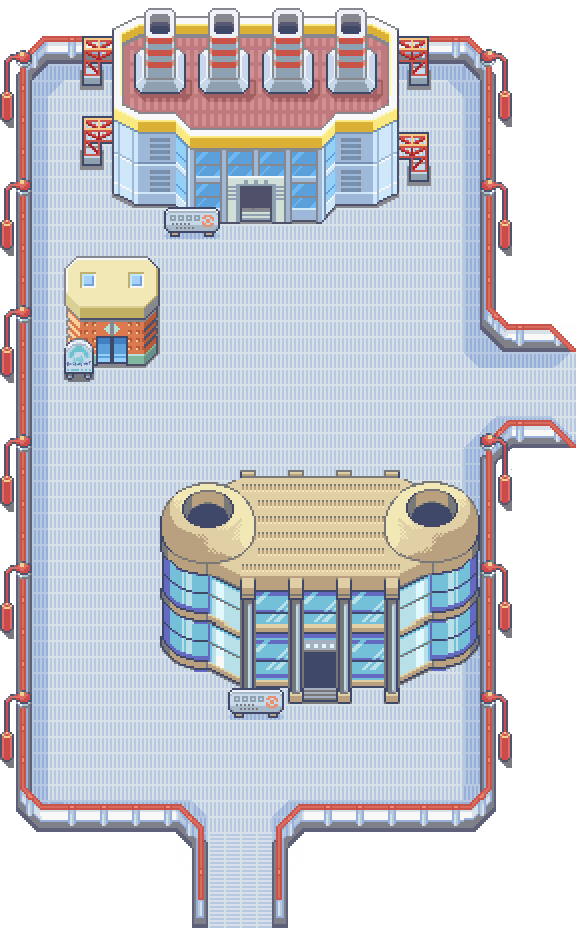
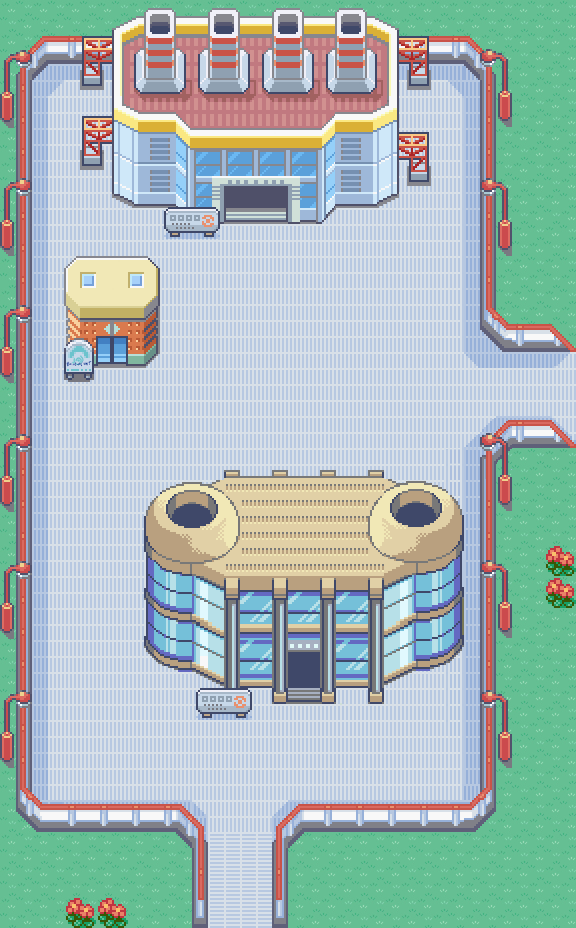
Correctif position bâtiments
Certains bâtiments étaient entre 2 cases (correctif Photoshop)
Correctif des data-top et data-left restants

diff --git a/index.html b/index.html
@@ -58,16 +58,15 @@
 	<!-- Contenu du jeu -->
 	<div id="wrapper">
 		<!-- Décor BG du jeu -->
-		<div class="flowers1" data-top="21" data-left="5"></div>
-		<div class="flowers1" data-top="26" data-left="15"></div>
-		<div class="flowers1" data-top="45" data-left="21"></div>
-		<div class="flowers1" data-top="49" data-left="38"></div>
-		<div class="flowers1" data-top="55" data-left="28"></div>
-		<div class="flowers1" data-top="57" data-left="6"></div>
-		<div class="flowers1" data-top="65" data-left="23"></div>
+		<div class="flowers1" data-x="5" data-y="21"></div>
+		<div class="flowers1" data-x="15" data-y="26"></div>
+		<div class="flowers1" data-x="21" data-y="45"></div>
+		<div class="flowers1" data-x="38" data-y="49"></div>
+		<div class="flowers1" data-x="6" data-y="57"></div>
+		<div class="flowers1" data-x="23" data-y="65"></div>
 		
-		<div class="flowers2" data-top="4" data-left="19"></div>
-		<div class="flowers2" data-top="4" data-left="25"></div>
+		<div class="flowers2" data-x="20" data-y="4"></div>
+		<div class="flowers2" data-x="25" data-y="4"></div>
 		
 		<!-- Montagnes -->
 		<div id="mountain">
